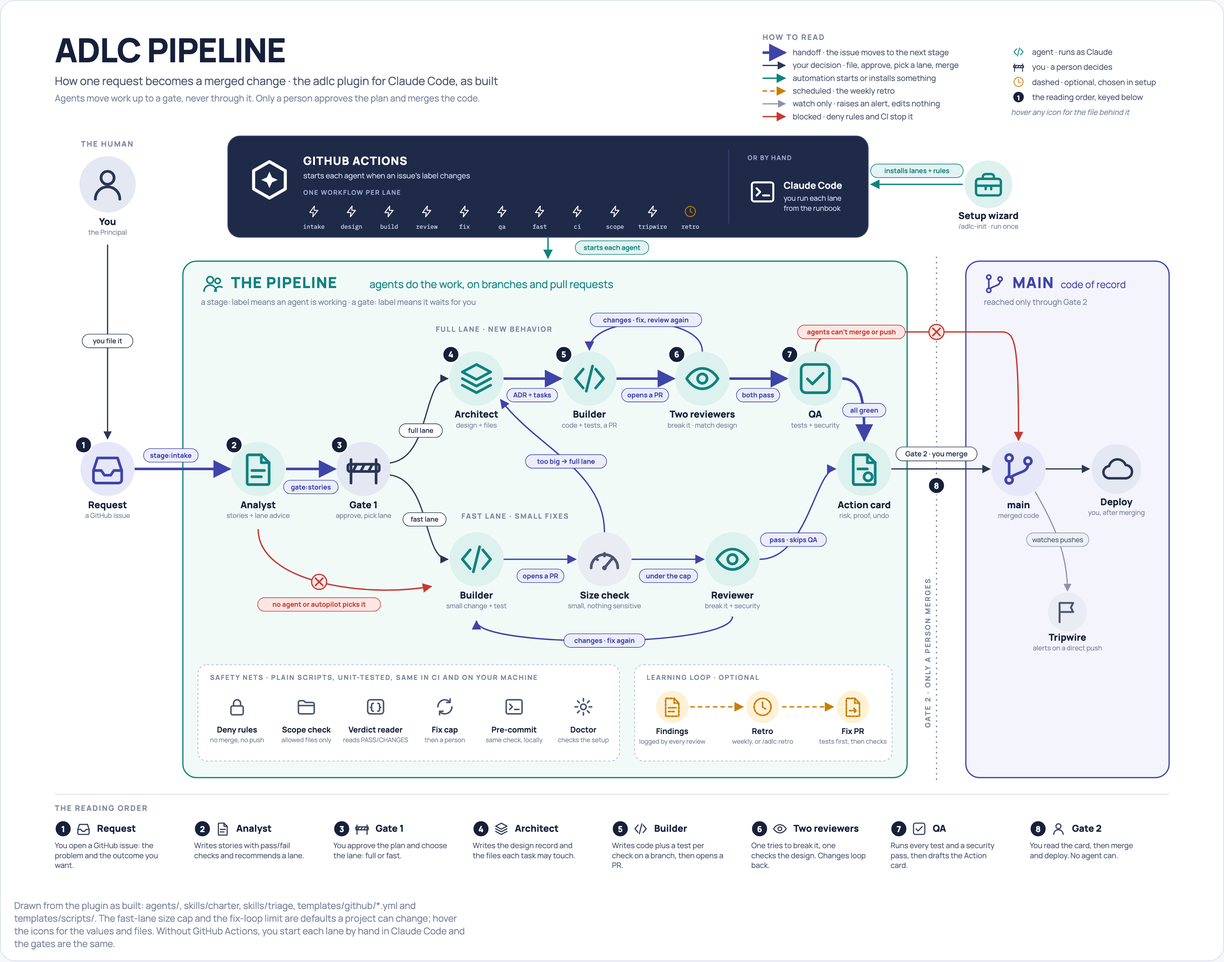
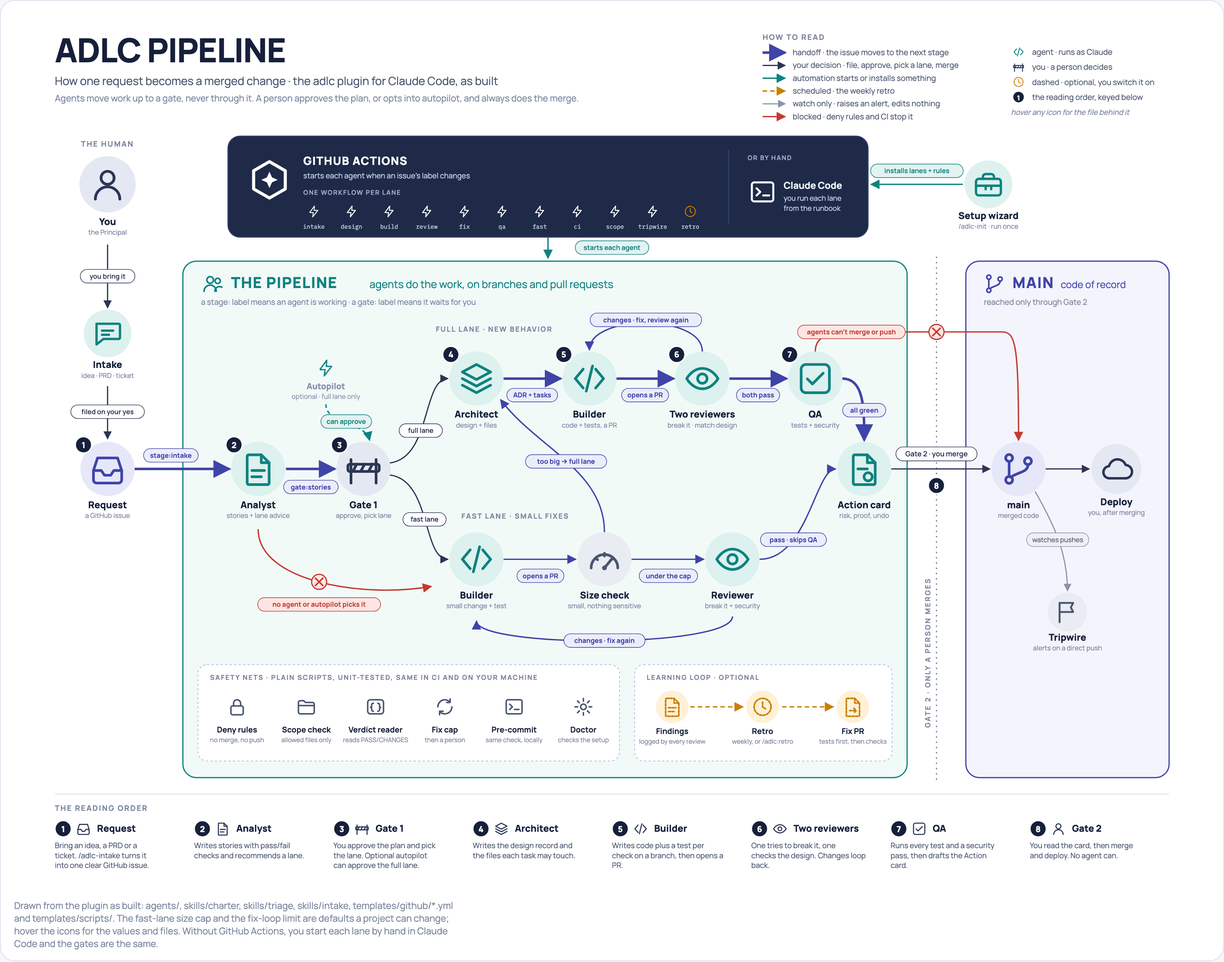
Diagram: show intake and optional autopilot; keep the generator beside it
- Intake step between the Principal and the request (idea, PRD, ticket).
- Autopilot drawn as optional: it can approve Gate 1, full lane only.
- docs/adlc-pipeline-diagram.py regenerates the HTML; render.py makes the PNG.

diff --git a/docs/adlc-pipeline-diagram.html b/docs/adlc-pipeline-diagram.html
@@ -89,7 +89,7 @@ text{fill:var(--ink)}
 </defs>
 <text x="60.0" y="70.0" class="title" text-anchor="start" style="font-size:44px;font-weight:800">ADLC PIPELINE</text>
 <text x="60.0" y="100.0" class="sub" text-anchor="start" style="font-size:15px">How one request becomes a merged change · the adlc plugin for Claude Code, as built</text>
-<text x="60.0" y="122.0" class="sub2" text-anchor="start" style="font-size:12px">Agents move work up to a gate, never through it. Only a person approves the plan and merges the code.</text>
+<text x="60.0" y="122.0" class="sub2" text-anchor="start" style="font-size:12px">Agents move work up to a gate, never through it. A person approves the plan, or opts into autopilot, and always does the merge.</text>
 <text x="1000.0" y="40.0" class="eyebrow" text-anchor="start" style="font-size:10px;font-weight:700">HOW TO READ</text>
 <line x1="1000" y1="57" x2="1030" y2="57" class="fl-ind fl-thick" marker-end="url(#arrow-ind)"/>
 <text x="1040.0" y="60.5" class="leg" text-anchor="start" style="font-size:10.5px">handoff · the issue moves to the next stage</text>
@@ -108,7 +108,7 @@ text{fill:var(--ink)}
 <g class="ic ic-s" transform="translate(1332.0,68.0) scale(0.667)"><path d="M4 21V6M20 21V6"/><rect x="2" y="9" width="20" height="4.6" rx="1.2"/><path d="M7.6 9l-2.4 4.6M12.6 9l-2.4 4.6M17.6 9l-2.4 4.6"/></g>
 <text x="1358.0" y="80.0" class="leg" text-anchor="start" style="font-size:10.5px">you · a person decides</text>
 <g class="ic ic-a" transform="translate(1332.0,88.0) scale(0.667)" stroke-dasharray="2.2 1.6"><circle cx="12" cy="12" r="9"/><path d="M12 7v5.2l3.2 1.9"/></g>
-<text x="1358.0" y="100.0" class="leg" text-anchor="start" style="font-size:10.5px">dashed · optional, chosen in setup</text>
+<text x="1358.0" y="100.0" class="leg" text-anchor="start" style="font-size:10.5px">dashed · optional, you switch it on</text>
 <circle cx="1340" cy="116" r="8" class="step"/>
 <text x="1340" y="120.2" class="step-t" text-anchor="middle" style="font-size:9px">1</text>
 <text x="1358.0" y="120.0" class="leg" text-anchor="start" style="font-size:10.5px">the reading order, keyed below</text>
@@ -177,9 +177,16 @@ text{fill:var(--ink)}
 <g class="ic ic-n" transform="translate(105.0,585.0) scale(2.083)"><title>A GitHub issue describing the problem and outcome. Issues are the execution source of truth; labels track the stage. File it with the Requirement issue template.</title><path d="M3 13l2.6-8h12.8L21 13v6a2 2 0 0 1-2 2H5a2 2 0 0 1-2-2z"/><path d="M3 13h5l2 3h4l2-3h5"/></g>
 <text x="130.0" y="662.0" class="lab" text-anchor="middle" style="font-size:12.5px;font-weight:800">Request</text>
 <text x="130.0" y="675.0" class="lab-s" text-anchor="middle" style="font-size:9px">a GitHub issue</text>
-<path d="M130,312 C130,420 130,480 130,570" class="fl-slate" marker-end="url(#arrow-slate)"/>
-<rect x="96.3" y="431.0" width="67.4" height="18.0" rx="9.0" class="lbl-s-bg"/>
-<text x="130.0" y="443.2" class="lbl-s" text-anchor="middle" style="font-size:9px">you file it</text>
+<circle cx="130.0" cy="430.0" r="31.7" class="tile-l"/>
+<g class="ic ic-l" transform="translate(108.0,408.0) scale(1.833)"><title>/adlc-intake (intake skill): starts from a rough idea, a PRD-lite, a full PRD (sliced), an existing GitHub issue, a bug, or a Notion / Linear ticket fetched through its connector. It interviews you only for what is missing, shows the exact issue, and files it with stage:intake after you confirm. Already clear? File the Requirement issue form or label your own issue.</title><path d="M4 5h16a1 1 0 0 1 1 1v9a1 1 0 0 1-1 1H9l-5 4z"/><path d="M8 10h8M8 13h5"/></g>
+<text x="130.0" y="476.0" class="lab" text-anchor="middle" style="font-size:12.5px;font-weight:800">Intake</text>
+<text x="130.0" y="489.0" class="lab-s" text-anchor="middle" style="font-size:9px">idea · PRD · ticket</text>
+<path d="M130,312 C130,340 130,370 130,396" class="fl-slate" marker-end="url(#arrow-slate)"/>
+<rect x="93.8" y="345.0" width="72.5" height="18.0" rx="9.0" class="lbl-s-bg"/>
+<text x="130.0" y="357.2" class="lbl-s" text-anchor="middle" style="font-size:9px">you bring it</text>
+<path d="M130,500 C130,522 130,548 130,570" class="fl-slate" marker-end="url(#arrow-slate)"/>
+<rect x="81.2" y="525.0" width="97.7" height="18.0" rx="9.0" class="lbl-s-bg"/>
+<text x="130.0" y="537.2" class="lbl-s" text-anchor="middle" style="font-size:9px">filed on your yes</text>
 <circle cx="98" cy="578" r="11" class="step"/>
 <text x="98" y="582.2" class="step-t" text-anchor="middle">1</text>
 <circle cx="330.0" cy="610.0" r="36.0" class="tile-l"/>
@@ -200,6 +207,12 @@ text{fill:var(--ink)}
 <path d="M367,610 C390,610 410,610 432,610" class="fl-ind fl-thick" marker-end="url(#arrow-ind)"/>
 <rect x="363.8" y="625.0" width="72.5" height="18.0" rx="9.0" class="lbl-i-bg"/>
 <text x="400.0" y="637.2" class="lbl-i" text-anchor="middle" style="font-size:9px">gate:stories</text>
+<g class="ic ic-l" transform="translate(407.0,463.0) scale(1.083)" stroke-dasharray="2.2 1.6"><title>adlc:autopilot label on an issue: adlc-intake.yml approves Gate 1 for you when the Analyst&#x27;s verdict is FULL. A FAST verdict still waits for you. Gate 2 is never automated.</title><path d="M13 2.5L4.5 14H11l-1 7.5L19 10h-6.5z"/></g>
+<text x="420.0" y="504.0" class="lab-g" text-anchor="middle" style="font-size:11px;font-weight:800">Autopilot</text>
+<text x="420.0" y="517.0" class="lab-g" text-anchor="middle" style="font-size:9px">optional · full lane only</text>
+<path d="M420,524 C420,552 472,546 478,572" class="fl-teal" style="stroke-dasharray:5 4" marker-end="url(#arrow-teal)"/>
+<rect x="413.3" y="538.0" width="67.4" height="18.0" rx="9.0" class="lbl-t-bg"/>
+<text x="447.0" y="550.2" class="lbl-t" text-anchor="middle" style="font-size:9px">can approve</text>
 <text x="566.0" y="428.0" class="eyebrow" text-anchor="start" style="font-size:9.5px;font-weight:700">FULL LANE · NEW BEHAVIOR</text>
 <circle cx="620.0" cy="490.0" r="36.0" class="tile-l"/>
 <g class="ic ic-l" transform="translate(595.0,465.0) scale(2.083)"><title>Architect (agents/architect.md): writes docs/adr/NNNN-*.md and a task breakdown where every task declares the exact files it may touch (its diff scope), plus a blast-radius check. Writes only under docs/.</title><path d="M12 3l9 4.8-9 4.8-9-4.8z"/><path d="M3 12l9 4.8 9-4.8M3 16.2l9 4.8 9-4.8"/></g>
@@ -351,9 +364,9 @@ text{fill:var(--ink)}
 <text x="71.0" y="1092.2" class="step-t" text-anchor="middle">1</text>
 <g class="ic ic-s" transform="translate(88.0,1078.0) scale(0.833)"><path d="M3 13l2.6-8h12.8L21 13v6a2 2 0 0 1-2 2H5a2 2 0 0 1-2-2z"/><path d="M3 13h5l2 3h4l2-3h5"/></g>
 <text x="116.0" y="1092.0" class="loop-t" text-anchor="start" style="font-size:12.5px;font-weight:800">Request</text>
-<text x="60.0" y="1114.0" class="loop-s" text-anchor="start" style="font-size:10px">You open a GitHub issue: the</text>
-<text x="60.0" y="1127.0" class="loop-s" text-anchor="start" style="font-size:10px">problem and the outcome you</text>
-<text x="60.0" y="1140.0" class="loop-s" text-anchor="start" style="font-size:10px">want.</text>
+<text x="60.0" y="1114.0" class="loop-s" text-anchor="start" style="font-size:10px">Bring an idea, a PRD or a</text>
+<text x="60.0" y="1127.0" class="loop-s" text-anchor="start" style="font-size:10px">ticket. /adlc-intake turns it</text>
+<text x="60.0" y="1140.0" class="loop-s" text-anchor="start" style="font-size:10px">into one clear GitHub issue.</text>
 <circle cx="256.0" cy="1088" r="11" class="step"/>
 <text x="256.0" y="1092.2" class="step-t" text-anchor="middle">2</text>
 <g class="ic ic-s" transform="translate(273.0,1078.0) scale(0.833)"><path d="M6 3h8l5 5v13a1 1 0 0 1-1 1H6a1 1 0 0 1-1-1V4a1 1 0 0 1 1-1z"/><path d="M14 3v5h5"/><path d="M8 13h8M8 17h6"/></g>
@@ -364,8 +377,9 @@ text{fill:var(--ink)}
 <text x="441.0" y="1092.2" class="step-t" text-anchor="middle">3</text>
 <g class="ic ic-s" transform="translate(458.0,1078.0) scale(0.833)"><path d="M4 21V6M20 21V6"/><rect x="2" y="9" width="20" height="4.6" rx="1.2"/><path d="M7.6 9l-2.4 4.6M12.6 9l-2.4 4.6M17.6 9l-2.4 4.6"/></g>
 <text x="486.0" y="1092.0" class="loop-t" text-anchor="start" style="font-size:12.5px;font-weight:800">Gate 1</text>
-<text x="430.0" y="1114.0" class="loop-s" text-anchor="start" style="font-size:10px">You approve the plan and choose</text>
-<text x="430.0" y="1127.0" class="loop-s" text-anchor="start" style="font-size:10px">the lane: full or fast.</text>
+<text x="430.0" y="1114.0" class="loop-s" text-anchor="start" style="font-size:10px">You approve the plan and pick</text>
+<text x="430.0" y="1127.0" class="loop-s" text-anchor="start" style="font-size:10px">the lane. Optional autopilot</text>
+<text x="430.0" y="1140.0" class="loop-s" text-anchor="start" style="font-size:10px">can approve the full lane.</text>
 <circle cx="626.0" cy="1088" r="11" class="step"/>
 <text x="626.0" y="1092.2" class="step-t" text-anchor="middle">4</text>
 <g class="ic ic-s" transform="translate(643.0,1078.0) scale(0.833)"><path d="M12 3l9 4.8-9 4.8-9-4.8z"/><path d="M3 12l9 4.8 9-4.8M3 16.2l9 4.8 9-4.8"/></g>
@@ -400,5 +414,5 @@ text{fill:var(--ink)}
 <text x="1355.0" y="1114.0" class="loop-s" text-anchor="start" style="font-size:10px">You read the card, then merge</text>
 <text x="1355.0" y="1127.0" class="loop-s" text-anchor="start" style="font-size:10px">and deploy. No agent can.</text>
 </svg>
-<figcaption>Drawn from the plugin as built: agents/, skills/charter, skills/triage, templates/github/*.yml and templates/scripts/. The fast-lane size cap and the fix-loop limit are defaults a project can change; hover the icons for the values and files. Without GitHub Actions, you start each lane by hand in Claude Code and the gates are the same.</figcaption></figure></div>
+<figcaption>Drawn from the plugin as built: agents/, skills/charter, skills/triage, skills/intake, templates/github/*.yml and templates/scripts/. The fast-lane size cap and the fix-loop limit are defaults a project can change; hover the icons for the values and files. Without GitHub Actions, you start each lane by hand in Claude Code and the gates are the same.</figcaption></figure></div>
 </body></html>

diff --git a/docs/adlc-pipeline-diagram.py b/docs/adlc-pipeline-diagram.py
@@ -1,0 +1,299 @@
+#!/usr/bin/env python3
+"""ADLC pipeline diagram — generator (icon-first house style; needs the diagram kit at
+~/.claude/skills/diagram).
+
+Run:  python3 docs/adlc-pipeline-diagram.py
+      -> rewrites docs/adlc-pipeline-diagram.html and prints the artifact-body path
+Then: python3 ~/.claude/skills/diagram/render.py docs/adlc-pipeline-diagram.html docs/adlc-pipeline-diagram.png
+
+Draw the as-built truth: re-read agents/, skills/charter, skills/triage, skills/intake and
+templates/github/*.yml before changing a flow.
+"""
+import sys, os
+sys.path.insert(0, os.path.expanduser("~/.claude/skills/diagram"))
+from diagram_kit import Canvas, GLYPHS
+
+# glyphs this picture needs that the kit lacks
+GLYPHS.update({
+ "gate":   '<path d="M4 21V6M20 21V6"/><rect x="2" y="9" width="20" height="4.6" rx="1.2"/><path d="M7.6 9l-2.4 4.6M12.6 9l-2.4 4.6M17.6 9l-2.4 4.6"/>',
+ "branch": '<circle cx="6" cy="5" r="2.2"/><circle cx="6" cy="19" r="2.2"/><circle cx="18" cy="7" r="2.2"/><path d="M6 7.2v9.6M18 9.2c0 5-6 4.6-11 8.1"/>',
+ "gauge":  '<path d="M3.5 17.5a8.5 8.5 0 1 1 17 0"/><path d="M12 17.5l4.6-5.6"/><circle cx="12" cy="17.5" r="1.5" class="g-fill"/><path d="M6.3 11.3l1.3 1M12 8.2v1.7M17.7 11.3l-1.3 1"/>',
+})
+
+W, H = 1600, 1170
+c = Canvas(W, H, "ADLC Pipeline",
+    aria="ADLC pipeline: a GitHub issue goes to the Analyst, then Gate 1 where you approve the plan and pick the full or the fast lane. "
+         "The full lane runs Architect, Builder, two reviewers and QA; the fast lane runs Builder, a size check and one reviewer. "
+         "Both end at an Action card, and only you merge into main at Gate 2. Agents are blocked from merging or pushing.")
+a, text, rect, flow, label, step, icon, node = c.a, c.text, c.rect, c.flow, c.label, c.step, c.icon, c.node
+
+# ---------------------------------------------------------------- header + legend
+text(60, 70, "ADLC PIPELINE", "title", size=44, weight=800)
+text(60, 100, "How one request becomes a merged change · the adlc plugin for Claude Code, as built", "sub", size=15)
+text(60, 122, "Agents move work up to a gate, never through it. A person approves the plan, or opts into autopilot, and always does the merge.", "sub2", size=12)
+
+lx, ly = 1000, 40
+text(lx, ly, "HOW TO READ", "eyebrow", size=10, weight=700)
+for i, (cls, mk, s) in enumerate([
+        ("fl-ind fl-thick", "arrow-ind", "handoff · the issue moves to the next stage"),
+        ("fl-slate", "arrow-slate", "your decision · file, approve, pick a lane, merge"),
+        ("fl-teal", "arrow-teal", "automation starts or installs something"),
+        ("fl-amber", "arrow-amber", "scheduled · the weekly retro"),
+        ("fl-grey", "arrow-grey", "watch only · raises an alert, edits nothing"),
+        ("fl-red", "arrow-red", "blocked · deny rules and CI stop it")]):
+    yy = ly + 17 + i * 17
+    c.line(lx, yy, lx + 30, yy, cls, mk); text(lx + 40, yy + 3.5, s, "leg", size=10.5)
+lx2 = 1330
+icon("api", lx2 + 10, ly + 16, 16, "ic-l"); text(lx2 + 28, ly + 20, "agent · runs as Claude", "leg", size=10.5)
+icon("gate", lx2 + 10, ly + 36, 16, "ic-s"); text(lx2 + 28, ly + 40, "you · a person decides", "leg", size=10.5)
+icon("clock", lx2 + 10, ly + 56, 16, "ic-a", dashed=True); text(lx2 + 28, ly + 60, "dashed · optional, you switch it on", "leg", size=10.5)
+step(lx2 + 10, ly + 76, 1, r=8); text(lx2 + 28, ly + 80, "the reading order, keyed below", "leg", size=10.5)
+text(lx2, ly + 100, "hover any icon for the file behind it", "leg-i", size=10)
+
+# ---------------------------------------------------------------- actor band
+text(130, 182, "THE HUMAN", "eyebrow", anchor="middle", size=10, weight=700)
+node("person", 130, 232, "You", "the Principal", size=52, cls="ic-s", tile="tile-s",
+     title="You, the Principal: file requests, approve the plan at Gate 1, pick the lane, merge and deploy at Gate 2. charter skill, section 3.")
+
+# engine cluster: what starts each agent
+CX, CY, CW, CH = 290, 168, 850, 134
+rect(CX, CY, CW, CH, "cluster", r=16)
+icon("hex", 345, 226, 58, "ic-w", title="GitHub Actions running anthropics/claude-code-action: one workflow per lane, fired by label changes. templates/github/")
+text(390, 206, "GITHUB ACTIONS", "clu-t", size=15, weight=800)
+text(390, 224, "starts each agent when an issue's label changes", "clu-s", size=10)
+text(390, 246, "ONE WORKFLOW PER LANE", "clu-e", size=8.5, weight=700)
+lanes = [("intake", "adlc-intake.yml: runs the Analyst when a requirement is filed (auto-start, optional)"),
+         ("design", "adlc-design.yml: runs the Architect on stage:design"),
+         ("build", "adlc-builder.yml: runs the Builder on stage:build"),
+         ("review", "adlc-review.yml: adversarial + architect review on every Builder PR; advances to stage:qa on two PASS verdicts"),
+         ("fix", "adlc-fix.yml: sends a PR with changes requested back to the Builder; stops after 3 rounds and tags needs:human"),
+         ("qa", "adlc-qa.yml: runs QA & Release-Ops on stage:qa"),
+         ("fast", "adlc-fast.yml: fast lane: Builder, size cap on the real diff, adversarial + security review"),
+         ("ci", "adlc-ci.yml: the project's tests, type-check and build on every PR"),
+         ("scope", "adlc-diff-scope.yml: fails a PR that touches files outside its allowed scope"),
+         ("tripwire", "adlc-main-tripwire.yml: alerts on any push to main that skipped a PR"),
+         ("retro", "adlc-retro.yml: weekly retro, opens a proposal PR (optional)")]
+for i, (n, tip) in enumerate(lanes):
+    cx = 404 + i * 50
+    sched = n == "retro"
+    icon("clock" if sched else "bolt", cx, 268, 18, "ic-a" if sched else "ic-w", dashed=sched or n == "intake", title=tip)
+    text(cx, 291, n, "clu-y lab-m", anchor="middle", size=8)
+a(f'<line x1="955" y1="{CY+18}" x2="955" y2="{CY+CH-18}" stroke="#3A4A78" stroke-width="1"/>')
+text(980, 200, "OR BY HAND", "clu-e", size=8.5, weight=700)
+icon("terminal", 1000, 242, 38, "ic-w", title="Local recipe: you run each agent yourself in Claude Code, following the generated RUNBOOK.md. The recommended way to start.")
+text(1028, 238, "Claude Code", "clu-x", size=12.5, weight=700)
+text(1028, 254, "you run each lane", "clu-y", size=9.5)
+text(1028, 267, "from the runbook", "clu-y", size=9.5)
+
+# setup wizard
+node("toolbox", 1300, 232, "Setup wizard", "/adlc-init · run once", size=44, cls="ic-l", tile="tile-l",
+     title="/adlc-init (bootstrap skill): detects a new or existing project, asks a short questionnaire, writes project-conventions, release-ops, charter, RUNBOOK, first ADR, .claude/settings.json deny rules, labels and (optionally) the workflows. Never commits.")
+flow("M1266,232 C1220,232 1190,232 1144,232", "fl-teal", "arrow-teal")
+label(1205, 214, "installs lanes + rules", "lbl-t", size=9)
+
+# cluster -> pipeline
+flow("M715,302 C715,312 715,318 715,330", "fl-teal", "arrow-teal")
+label(800, 316, "starts each agent", "lbl-t", size=9)
+
+# ---------------------------------------------------------------- zones
+ZY, ZH = 334, 686
+PX, PW = 230, 962
+MX, MW = 1270, 270
+BX = 1231
+rect(PX, ZY, PW, ZH, "zone-l", r=18)
+icon("people", PX + 40, ZY + 30, 30, "ic-l")
+text(PX + 64, ZY + 36, "THE PIPELINE", "zone-title l", size=20, weight=800)
+text(PX + 248, ZY + 36, "agents do the work, on branches and pull requests", "zone-sub l", size=14)
+text(PX + 24, ZY + 58, "a stage: label means an agent is working · a gate: label means it waits for you", "zone-rule", size=10.5)
+
+rect(MX, ZY, MW, ZH, "zone-n", r=18)
+icon("branch", MX + 38, ZY + 30, 30, "ic-n")
+text(MX + 62, ZY + 36, "MAIN", "zone-title n", size=20, weight=800)
+text(MX + 126, ZY + 36, "code of record", "zone-sub n", size=13)
+text(MX + 24, ZY + 58, "reached only through Gate 2", "zone-rule", size=10.5)
+
+a(f'<line x1="{BX}" y1="{ZY-6}" x2="{BX}" y2="{ZY+ZH+6}" class="membrane"/>')
+a(f'<text transform="translate({BX-8},{ZY+520}) rotate(-90)" class="membrane-t" text-anchor="middle" style="font-size:9.5px;letter-spacing:.18em;font-weight:700">GATE 2 · ONLY A PERSON MERGES</text>')
+
+# ---------------------------------------------------------------- the request (outside the zones)
+node("inbox", 130, 610, "Request", "a GitHub issue", size=50, cls="ic-n", tile="tile-n",
+     title="A GitHub issue describing the problem and outcome. Issues are the execution source of truth; labels track the stage. File it with the Requirement issue template.")
+node("chat", 130, 430, "Intake", "idea · PRD · ticket", size=44, cls="ic-l", tile="tile-l",
+     title="/adlc-intake (intake skill): starts from a rough idea, a PRD-lite, a full PRD (sliced), an existing GitHub issue, a bug, or a Notion / Linear ticket fetched through its connector. It interviews you only for what is missing, shows the exact issue, and files it with stage:intake after you confirm. Already clear? File the Requirement issue form or label your own issue.")
+flow("M130,312 C130,340 130,370 130,396", "fl-slate", "arrow-slate")
+label(130, 354, "you bring it", "lbl-s", size=9)
+flow("M130,500 C130,522 130,548 130,570", "fl-slate", "arrow-slate")
+label(130, 534, "filed on your yes", "lbl-s", size=9)
+step(98, 578, 1)
+
+# ---------------------------------------------------------------- shared start: Analyst + Gate 1
+RY = 610
+node("doc", 330, RY, "Analyst", "stories + lane advice", size=50, cls="ic-l", tile="tile-l",
+     title="Product Analyst (agents/product-analyst.md): asks numbered questions if the request is unclear; otherwise writes stories with Given/When/Then acceptance criteria (full) or a one-check change brief (fast), and ends with ADLC-TRIAGE: FAST or FULL. Writes only issue comments and labels.")
+step(298, 578, 2)
+flow("M166,610 C210,610 250,610 292,610", "fl-ind fl-thick", "arrow-ind")
+label(214, 592, "stage:intake", "lbl-i", size=9)
+
+node("gate", 470, RY, "Gate 1", "approve, pick lane", size=50, cls="ic-s", tile="tile-s",
+     title="Gate 1 (gate:stories): you accept or return the stories, then apply stage:design (full lane) or stage:fast (fast lane). Optional autopilot can approve into the full lane only; the fast lane always waits for a person. You can also put a fresh issue on stage:fast yourself; the Analyst then never runs.")
+step(438, 578, 3)
+flow("M367,610 C390,610 410,610 432,610", "fl-ind fl-thick", "arrow-ind")
+label(400, 634, "gate:stories", "lbl-i", size=9)
+# optional autopilot: approves Gate 1 for you, into the full lane only
+node("bolt", 420, 476, "Autopilot", "optional · full lane only", size=26, cls="ic-l", tile=None, dashed=True, label_size=11,
+     title="adlc:autopilot label on an issue: adlc-intake.yml approves Gate 1 for you when the Analyst's verdict is FULL. A FAST verdict still waits for you. Gate 2 is never automated.")
+a('<path d="M420,524 C420,552 472,546 478,572" class="fl-teal" style="stroke-dasharray:5 4" marker-end="url(#arrow-teal)"/>')
+label(447, 547, "can approve", "lbl-t", size=9)
+
+# ---------------------------------------------------------------- full lane (row A)
+AY = 490
+text(566, 428, "FULL LANE · NEW BEHAVIOR", "eyebrow", size=9.5, weight=700)
+node("layers", 620, AY, "Architect", "design + files", size=50, cls="ic-l", tile="tile-l",
+     title="Architect (agents/architect.md): writes docs/adr/NNNN-*.md and a task breakdown where every task declares the exact files it may touch (its diff scope), plus a blast-radius check. Writes only under docs/.")
+step(586, 458, 4)
+node("api", 770, AY, "Builder", "code + tests, a PR", size=50, cls="ic-l", tile="tile-l",
+     title="Builder (agents/builder.md): implements on feat/<issue>-<slug>, a test per acceptance criterion (SN-ACN ids), runs the project's pass/fail command, opens a PR. Never merges, never pushes to main.")
+step(736, 458, 5)
+node("eye", 920, AY, "Two reviewers", "break it · match design", size=50, cls="ic-l", tile="tile-l",
+     title="Adversarial Reviewer (agents/adversarial-reviewer.md): fresh context, sees only the diff, tries to break it, ends with ADLC-ADV: PASS or CHANGES. Then the Architect checks the PR against the design: ADLC-ARCH: PASS or CHANGES.")
+step(886, 458, 6)
+node("check", 1070, AY, "QA", "tests + security", size=50, cls="ic-l", tile="tile-l",
+     title="QA & Release-Ops (agents/qa-release-ops.md): runs the full battery, writes missing tests (test folders only), runs the security gate, then adds gate:deploy and posts a Proposed Action Card. Never merges or deploys.")
+step(1036, 458, 7)
+
+# Gate 1 -> lanes (your decision)
+flow("M505,602 C560,595 548,490 582,490", "fl-slate", "arrow-slate")
+label(546, 559, "full lane", "lbl-s", size=9)
+flow("M505,618 C560,625 548,730 582,730", "fl-slate", "arrow-slate")
+label(551, 677, "fast lane", "lbl-s", size=9)
+
+flow("M656,490 C685,490 705,490 732,490", "fl-ind fl-thick", "arrow-ind")
+label(694, 512, "ADR + tasks", "lbl-i", size=9)
+flow("M806,490 C835,490 855,490 882,490", "fl-ind fl-thick", "arrow-ind")
+label(844, 512, "opens a PR", "lbl-i", size=9)
+flow("M956,490 C985,490 1005,490 1032,490", "fl-ind fl-thick", "arrow-ind")
+label(994, 512, "both pass", "lbl-i", size=9)
+# fix loop
+flow("M920,454 C920,404 770,404 770,452", "fl-ind", "arrow-ind")
+label(845, 412, "changes · fix, review again", "lbl-i", size=9)
+
+# ---------------------------------------------------------------- fast lane (row B)
+BY = 730
+text(600, 676, "FAST LANE · SMALL FIXES", "eyebrow", size=9.5, weight=700)
+node("api", 620, BY, "Builder", "small change + test", size=50, cls="ic-l", tile="tile-l",
+     title="Builder on the fast lane (adlc-fast.yml): works from the change brief, no ADR; writes the scope to .adlc/scope.txt, adds a test for S1-AC1, opens a PR labelled lane:fast.")
+node("gauge", 790, BY, "Size check", "small, nothing sensitive", size=50, cls="ic-l2", tile="plate",
+     title="adlc-triage.sh re-checks the real diff: default max 5 files and 40 changed lines, and no migrations, auth, infra, CI, .github/.claude, dependency manifests or secrets. Over the cap, the change goes to the full lane.")
+node("eye", 960, BY, "Reviewer", "break it + security", size=50, cls="ic-l", tile="tile-l",
+     title="Adversarial Reviewer on the fast lane: diff + change brief only, walks every security-gate attack class, ends with ADLC-ADV: PASS or CHANGES.")
+flow("M656,730 C690,730 720,730 752,730", "fl-ind", "arrow-ind")
+label(705, 752, "opens a PR", "lbl-i", size=9)
+flow("M826,730 C860,730 890,730 922,730", "fl-ind", "arrow-ind")
+label(875, 752, "under the cap", "lbl-i", size=9)
+# fix loop, fast lane
+flow("M960,806 C960,848 620,848 620,812", "fl-ind", "arrow-ind")
+label(790, 838, "changes · fix again", "lbl-i", size=9)
+# bounce to the full lane
+flow("M790,694 C790,612 700,582 652,518", "fl-ind", "arrow-ind")
+label(739, 600, "too big → full lane", "lbl-i", size=9)
+# blocked: no agent or autopilot chooses the fast lane
+flow("M330,690 C330,760 470,782 560,766", "fl-red", "arrow-red")
+c.nogo(411, 760)
+label(411, 790, "no agent or autopilot picks it", "lbl-r", size=9)
+
+# ---------------------------------------------------------------- both lanes end at the Action card
+node("contract", 1135, RY, "Action card", "risk, proof, undo", size=50, cls="ic-l", tile="tile-l",
+     title="Proposed Action Card (charter skill): action, risk, evidence, migrations none/additive/DESTRUCTIVE, rollback step. Posted with gate:deploy; awaits your approval.")
+flow("M1106,490 C1135,490 1135,530 1135,572", "fl-ind fl-thick", "arrow-ind")
+label(1135, 532, "all green", "lbl-i", size=9)
+flow("M996,730 C1060,730 1070,610 1097,610", "fl-ind", "arrow-ind")
+label(1041, 704, "pass · skips QA", "lbl-i", size=9)
+
+# ---------------------------------------------------------------- crossing the membrane
+node("branch", 1340, RY, "main", "merged code", size=50, cls="ic-n", tile="tile-n",
+     title="The main branch. Agents cannot merge or push here: gh pr merge and pushes to main are deny-listed in .claude/settings.json; public repos add branch protection.")
+flow("M1171,610 C1210,610 1260,610 1302,610", "fl-slate fl-thick", "arrow-slate")
+label(1231, 590, "Gate 2 · you merge", "lbl-s", size=9.5)
+step(1231, 632, 8)
+node("cloud", 1470, RY, "Deploy", "you, after merging", size=46, cls="ic-s", tile="tile-s",
+     title="Deploy and any database migration run only after Gate 2, by you. Destructive migrations are a hard stop for every agent.")
+flow("M1376,610 C1396,610 1414,610 1434,610", "fl-slate", "arrow-slate")
+# blocked: agents merging or pushing
+flow("M1070,454 C1070,436 1086,428 1110,428 C1200,428 1300,428 1318,428 C1336,428 1340,444 1340,572", "fl-red", "arrow-red")
+c.nogo(BX, 428)
+label(1118, 428, "agents can't merge or push", "lbl-r", size=9)
+# tripwire
+node("flag", 1405, 800, "Tripwire", "alerts on a direct push", size=36, cls="ic-l2", tile="plate",
+     title="adlc-main-tripwire.yml + adlc-tripwire-check.sh: on every push to main, fails and files a bug if a commit arrived without a merged PR. The free-plan stand-in for branch protection on private repos.")
+flow("M1362,640 C1385,680 1405,720 1405,772", "fl-grey", "arrow-grey")
+label(1392, 704, "watches pushes", "lbl-g", size=9)
+
+# ---------------------------------------------------------------- safety nets + learning loop (bottom of the pipeline zone)
+SY = 870
+rect(250, SY, 560, 128, "legacy-strip", r=12)
+text(266, SY + 20, "SAFETY NETS · PLAIN SCRIPTS, UNIT-TESTED, SAME IN CI AND ON YOUR MACHINE", "eyebrow", size=9, weight=700)
+nets = [("lock", "Deny rules", "no merge, no push", "templates/settings.deny.json: gh pr merge, pushes to main and force-pushes are denied for every agent."),
+        ("folder", "Scope check", "allowed files only", "adlc-diff-scope.sh: design PRs may touch docs/ only, QA PRs test folders only, build PRs the declared scope."),
+        ("json", "Verdict reader", "reads PASS/CHANGES", "adlc-verdict.sh: parses the reviewers' ADLC-ADV / ADLC-ARCH lines; control never trusts GitHub review state."),
+        ("sync", "Fix cap", "then a person", "adlc-fix-cap.sh: counts adlc-fix: commits; after 3 rounds the PR is tagged needs:human."),
+        ("terminal", "Pre-commit", "same check, locally", "templates/hooks/pre-commit: runs the scope check before each local commit."),
+        ("gear", "Doctor", "checks the setup", "adlc-doctor.sh: fails a setup with missing deny rules, unfilled placeholders, missing skills or labels.")]
+for i, (g, t, s, tip) in enumerate(nets):
+    cx = 302 + i * 92
+    icon(g, cx, SY + 56, 28, "ic-l2", title=tip)
+    text(cx, SY + 90, t, "lab", anchor="middle", size=10.5, weight=700)
+    text(cx, SY + 103, s, "lab-s", anchor="middle", size=8.5)
+
+rect(830, SY, 342, 128, "legacy-strip", r=12)
+text(846, SY + 20, "LEARNING LOOP · OPTIONAL", "eyebrow", size=9, weight=700)
+loop = [(880, "doc", "Findings", "logged by every review", "Every review and QA finding is written as an ADLC-FINDING line in the PR comment; adlc-log-findings.sh builds .adlc/metrics/findings.jsonl from them."),
+        (1000, "clock", "Retro", "weekly, or /adlc:retro", "retro skill + adlc-retro.yml (Mondays by default): ranks recurring mistakes."),
+        (1120, "docout", "Fix PR", "tests first, then checks", "A propose-only PR: a regression test first, then a CI check, then a convention. It goes through both gates like any change.")]
+for x, g, t, s, tip in loop:
+    icon(g, x, SY + 56, 30, "ic-a", dashed=True, tile="tile-a", title=tip)
+    text(x, SY + 92, t, "lab", anchor="middle", size=10.5, weight=700)
+    text(x, SY + 105, s, "lab-s", anchor="middle", size=8.5)
+flow(f"M904,{SY+56} C924,{SY+56} 950,{SY+56} 974,{SY+56}", "fl-amber", "arrow-amber")
+flow(f"M1026,{SY+56} C1046,{SY+56} 1070,{SY+56} 1094,{SY+56}", "fl-amber", "arrow-amber")
+
+# ---------------------------------------------------------------- reading order
+FY = 1064
+c.line(60, FY - 22, W - 60, FY - 22, "col-rule")
+text(60, FY, "THE READING ORDER", "eyebrow", size=10, weight=700)
+items = [(1, "inbox", "Request", "Bring an idea, a PRD or a ticket. /adlc-intake turns it into one clear GitHub issue."),
+         (2, "doc", "Analyst", "Writes stories with pass/fail checks and recommends a lane."),
+         (3, "gate", "Gate 1", "You approve the plan and pick the lane. Optional autopilot can approve the full lane."),
+         (4, "layers", "Architect", "Writes the design record and the files each task may touch."),
+         (5, "api", "Builder", "Writes code plus a test per check on a branch, then opens a PR."),
+         (6, "eye", "Two reviewers", "One tries to break it, one checks the design. Changes loop back."),
+         (7, "check", "QA", "Runs every test and a security pass, then drafts the Action card."),
+         (8, "person", "Gate 2", "You read the card, then merge and deploy. No agent can.")]
+cw = (W - 120) / len(items)
+for i, (n, g, t, s) in enumerate(items):
+    x = 60 + i * cw
+    step(x + 11, FY + 24, n); icon(g, x + 38, FY + 24, 20, "ic-s")
+    text(x + 56, FY + 28, t, "loop-t", size=12.5, weight=800)
+    words, ls, cur = s.split(), [], ""
+    for wd in words:
+        if len(cur) + len(wd) + 1 > 31: ls.append(cur); cur = wd
+        else: cur = (cur + " " + wd).strip()
+    ls.append(cur)
+    c.lines(x, FY + 50, ls, "loop-s", size=10, lh=13)
+
+import shutil, tempfile
+here = os.path.dirname(os.path.abspath(__file__))
+out = os.path.join(tempfile.gettempdir(), "adlc-pipeline-diagram")
+body, standalone = c.write(os.path.join(out, "adlc-pipeline.html"),
+        caption="Drawn from the plugin as built: agents/, skills/charter, skills/triage, skills/intake, templates/github/*.yml and templates/scripts/. "
+                "The fast-lane size cap and the fix-loop limit are defaults a project can change; hover the icons for the values and files. "
+                "Without GitHub Actions, you start each lane by hand in Claude Code and the gates are the same.")
+
+# page contract: dark blocks also switch native scrollbars to dark
+for f in (body, standalone):
+    t = open(f).read()
+    t = t.replace(':root:not([data-theme="light"]){ ', ':root:not([data-theme="light"]){ color-scheme:dark; ', 1)
+    t = t.replace(':root[data-theme="dark"]{ ', ':root[data-theme="dark"]{ color-scheme:dark; ', 1)
+    open(f, "w").write(t)
+shutil.copyfile(standalone, os.path.join(here, "adlc-pipeline-diagram.html"))
+print("wrote", os.path.join(here, "adlc-pipeline-diagram.html"))
+print("artifact body:", body)
